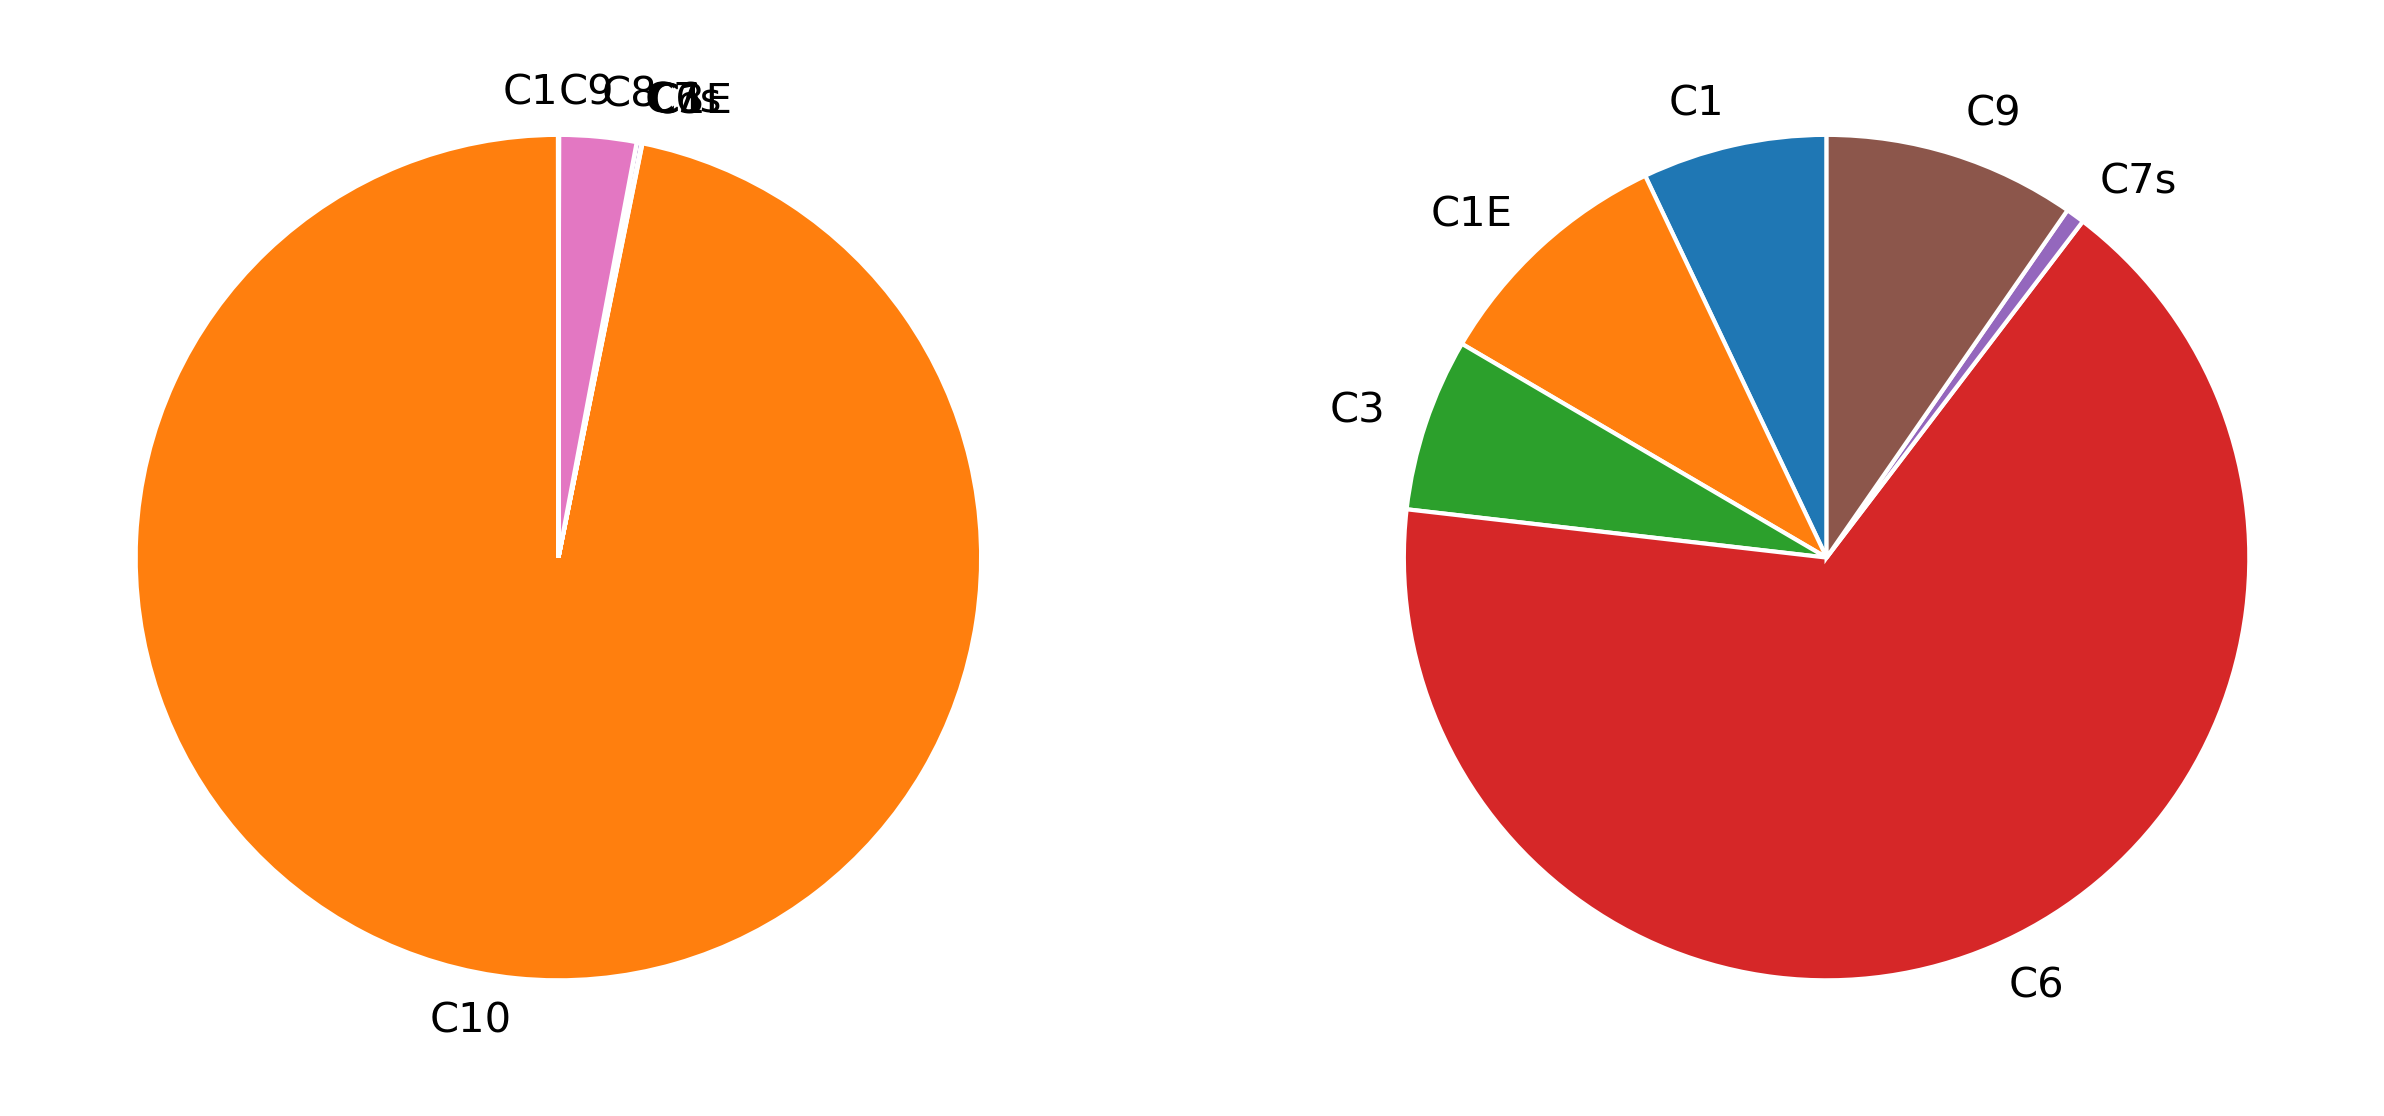
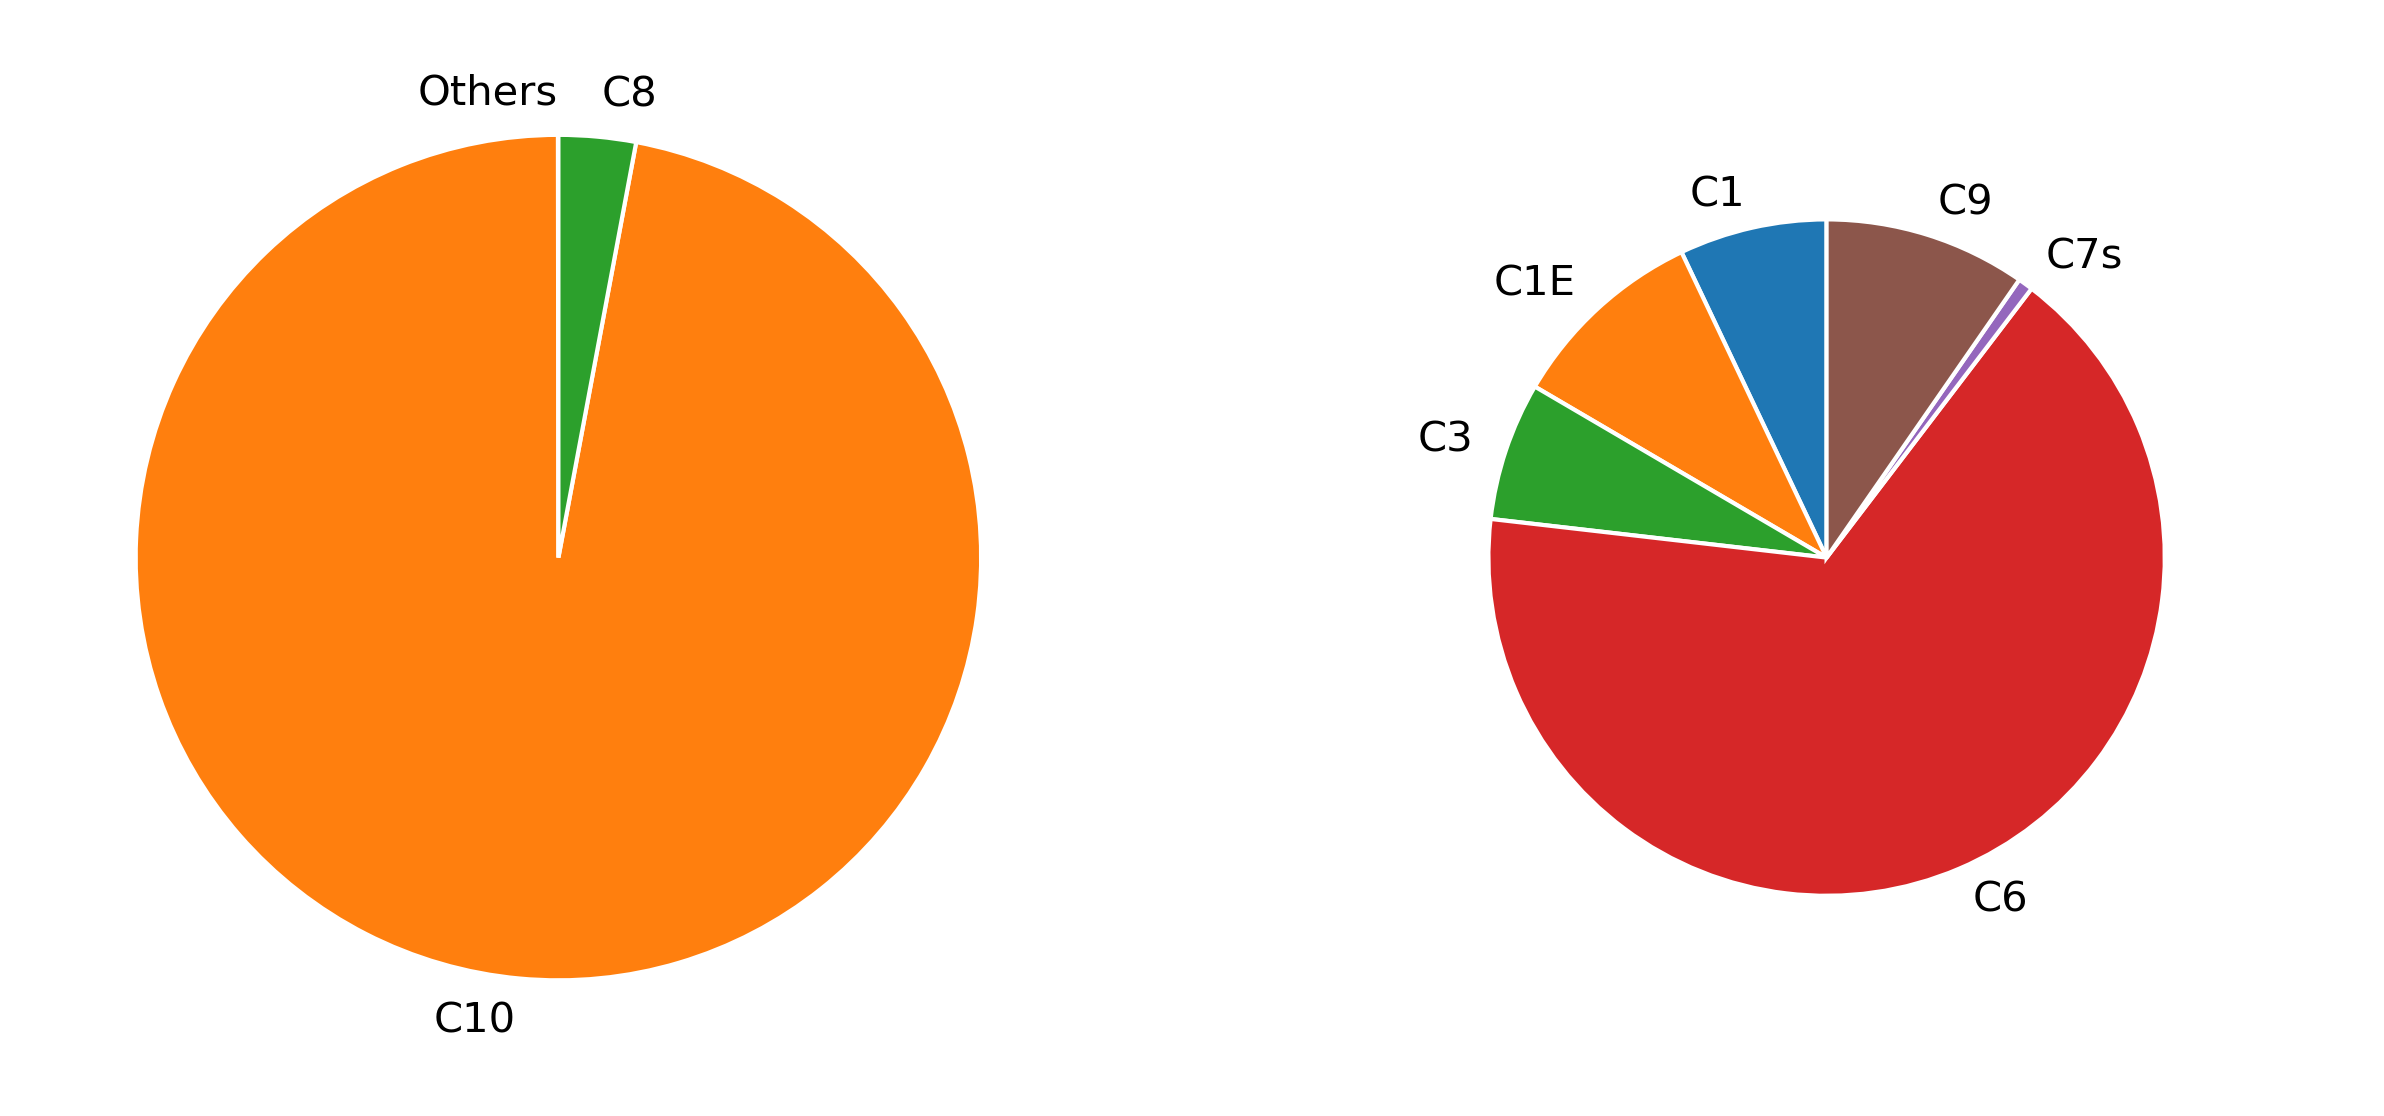
idle-governor: pie chart add others group

diff --git a/images/idle-governor/idle-governor-cstate-pie-time.py b/images/idle-governor/idle-governor-cstate-pie-time.py
@@ -17,15 +17,21 @@ grouped_data = df.groupby('C-State')['Sleep[ns]'].sum().reset_index()
 largest_i = grouped_data.nlargest(2, 'Sleep[ns]').index
 without_largest = grouped_data.drop(largest_i)
 
-fig, axs = plt.subplots(1, 2, figsize=(10, 5))
+fig, axs = plt.subplots(1, 2, figsize=(10, 30))
 
-labels_first = grouped_data['C-State']
-axs[0].pie(grouped_data['Sleep[ns]'],
+
+df_filtered = grouped_data.loc[grouped_data.index.isin(largest_i) | (grouped_data.index == grouped_data.index.min())]  # Include 'other' row
+
+df_filtered.loc[df_filtered.index.min(), 'C-State'] = 'Others'
+
+labels_first = df_filtered['C-State']
+axs[0].pie(df_filtered['Sleep[ns]'],
            startangle=90, wedgeprops=lineprops, labels=labels_first)# pctdistance=1.15)# explode=explode_arr)
 
 labels_scnd = without_largest['C-State']
 axs[1].pie(without_largest['Sleep[ns]'],
-           startangle=90, wedgeprops=lineprops, labels=labels_scnd)
+           startangle=90, wedgeprops=lineprops, labels=labels_scnd, radius=0.8)
+
 
 print(f'generate {FILE_PDF}')
 plt.savefig(FILE_PDF, dpi=300, bbox_inches='tight')
